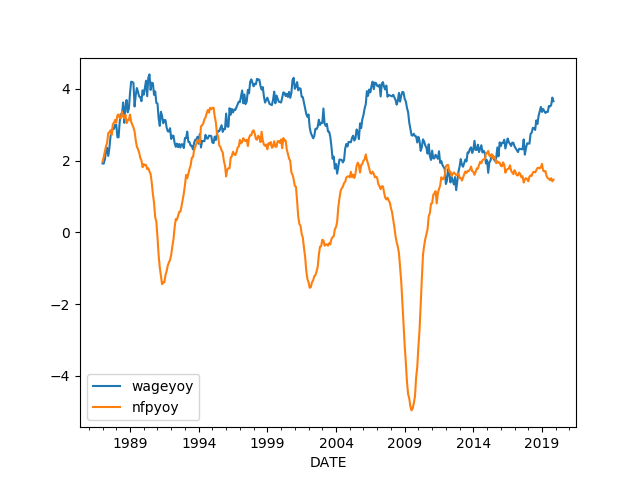
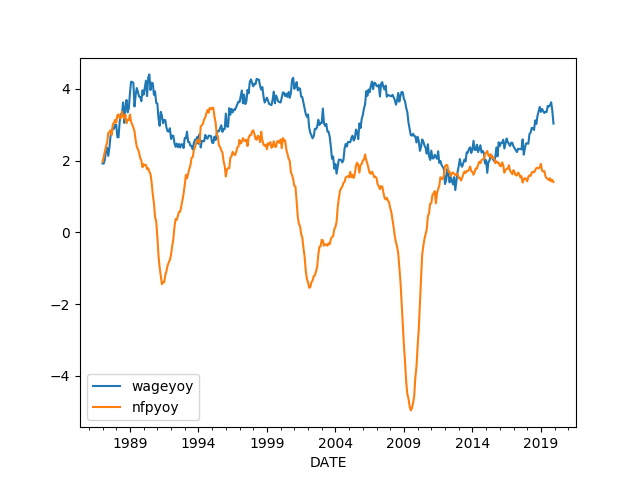
-

diff --git a/en/2019/05/stats.md b/en/2019/05/stats.md
@@ -293,7 +293,6 @@ print (df.tail(10))
 ```text
             Value
 Date             
-2019-02-28  1.520
 2019-03-31  1.863
 2019-04-30  1.996
 2019-05-31  1.790
@@ -303,6 +302,7 @@ Date
 2019-09-30  1.711
 2019-10-31  1.764
 2019-11-30  2.051
+2019-12-31  2.285
 ```
 
 <a name="cpyoy"></a>
@@ -391,7 +391,26 @@ df = data.DataReader(cols, 'fred', start, end)
 df['nfpyoy'] = (df.PAYEMS - df.PAYEMS.shift(12)) / df.PAYEMS.shift(12) * 100.0
 df['wageyoy'] = (df.AHETPI - df.AHETPI.shift(12)) / df.AHETPI.shift(12) * 100.0
 df[['wageyoy','nfpyoy']].plot()
+print (df['wageyoy'].tail(5))
+print (df['nfpyoy'].tail(5))
 plt.savefig('pay-wage.png')
+```
+
+```text
+DATE
+2019-08-01    3.508772
+2019-09-01    3.543307
+2019-10-01    3.624454
+2019-11-01    3.392779
+2019-12-01    3.031615
+Freq: MS, Name: wageyoy, dtype: float64
+DATE
+2019-08-01    1.451825
+2019-09-01    1.507605
+2019-10-01    1.421402
+2019-11-01    1.459533
+2019-12-01    1.402762
+Freq: MS, Name: nfpyoy, dtype: float64
 ```
 
 ![](pay-wage.png)

diff --git a/en/README.md b/en/README.md
@@ -11,6 +11,10 @@ despite the best efforts of people working in them.
 
 ## Latest
 
+26/1 - [Tweets - Week 4](/tweets/2020/week4.md)
+
+26/1 - [The European Green Deal](/2020/01/european-green-deal.md)
+
 19/1 - [Tweets - Week 3](/tweets/2020/week3.md)
 
 19/1 - [A Global Green New Deal](/2020/01/global-green-new-deal.md)
@@ -20,10 +24,6 @@ despite the best efforts of people working in them.
 2/1 - [Tweets - Week 1](/tweets/2020/week1.md)
 
 26/12 - [Tweets - Week 52](/tweets/2019/week52.md)
-
-19/12 - [Tweets - Week 51](/tweets/2019/week51.md)
-
-12/12 - [Tweets - Week 50](/tweets/2019/week50.md)
 
 ## For Members
 
